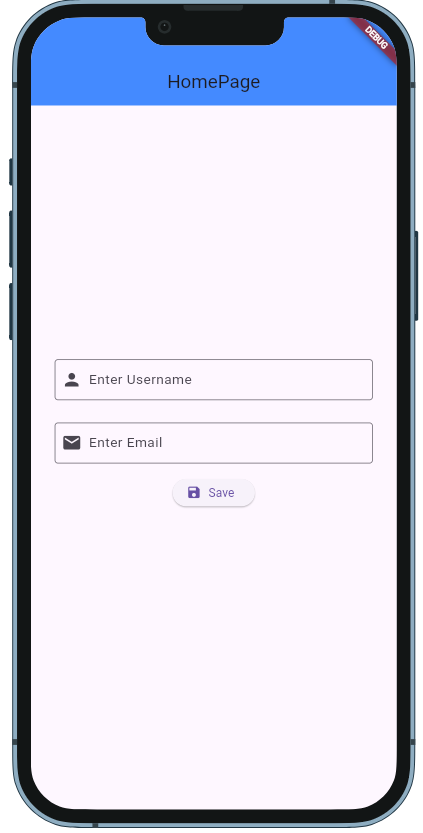
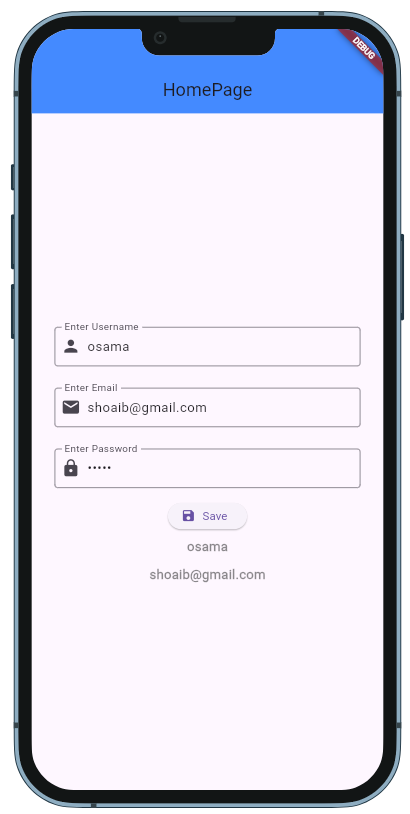
add_password_section

Changed region(s): [[0.0, 0.0, 0.9951, 1.0], [0.1171, 0.3993, 0.9073, 0.5835], [0.439, 0.5835, 0.5854, 0.7371]]

diff --git a/lib/home_page.dart b/lib/home_page.dart
@@ -13,8 +13,11 @@ class HomePage extends StatefulWidget{
 class _HomePageState extends State<HomePage> {
   final c1 = TextEditingController();
   final c2 = TextEditingController();
+  final c3 = TextEditingController();
+
   String n ="";
   String em="";
+  String pass = "";
 
   @override
   void initState() {
@@ -28,24 +31,31 @@ class _HomePageState extends State<HomePage> {
     SharedPreferences pref = await SharedPreferences.getInstance();
      String name = pref.getString("name") ?? "";
      String email = pref.getString("email") ?? "";
+     String password = pref.getString("password") ?? "";
 
      n = name;
      em = email;
+     pass = password;
+
      c1.text = n;
      c2.text = em;
+     c3.text = pass;
      setState(() {
 
      });
   }
 
-  Future<void> show(String name, String email) async {
+  Future<void> show(String name, String email,password) async {
 
     n = name;
     em = email;
+    pass = password;
+
 
     SharedPreferences pref = await SharedPreferences.getInstance();
     pref.setString("name", n);
     pref.setString("email", em);
+    pref.setString("password", pass);
 
     setState(() {
 
@@ -101,17 +111,36 @@ class _HomePageState extends State<HomePage> {
 
               SizedBox(height: 10,),
 
+              Padding(padding: EdgeInsets.all(8.0),
+                child: TextField(
+                  controller: c3,
+                  obscureText: true,
+                  decoration: InputDecoration(
+                    border: OutlineInputBorder(),
+                    prefixIcon: Icon(Icons.lock),
+                    labelText: "Enter Password",
+
+
+
+
+                  ),
+                ),
+              ),
+
+              SizedBox(height: 10,),
+
               ElevatedButton.icon(onPressed: (){
 
                 String name = c1.text;
                 String email = c2.text;
+                String password = c3.text;
 
                 if(!email.isEmail){
                   Get.snackbar("Error", "Enter valid Email");
                 }
 
-                else if(name.isNotEmpty && email.isNotEmpty){
-                  show(name, email);
+                else if(name.isNotEmpty && email.isNotEmpty && password.isNotEmpty){
+                  show(name, email,password);
                 }
 
                 else{
@@ -137,7 +166,11 @@ class _HomePageState extends State<HomePage> {
                 color: Colors.black45,
                 fontWeight: FontWeight.bold,
                 fontSize: 16,
-              ),)
+              ),),
+
+
+
+
 
 
 

diff --git a/README.md b/README.md
@@ -9,8 +9,12 @@ The saved data is loaded automatically when the app starts.
 - Display saved information on the screen.
 - Show error messages using `Get.snackbar()`.
 
-## 📸 App Preview
-![HomePage](assets/images/101.png)
+## 📸 Screenshots
+
+| Home Page                           |
+|-------------------------------------|
+| ![Home](assets/screenshots/101.png) |
+
 
 ## 👉 Live Demo
 
